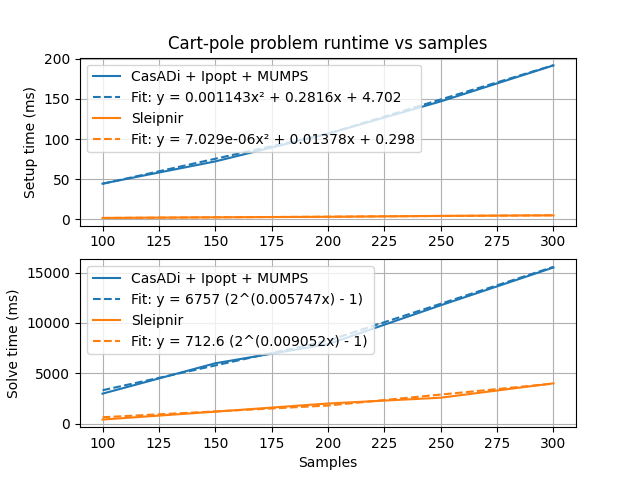
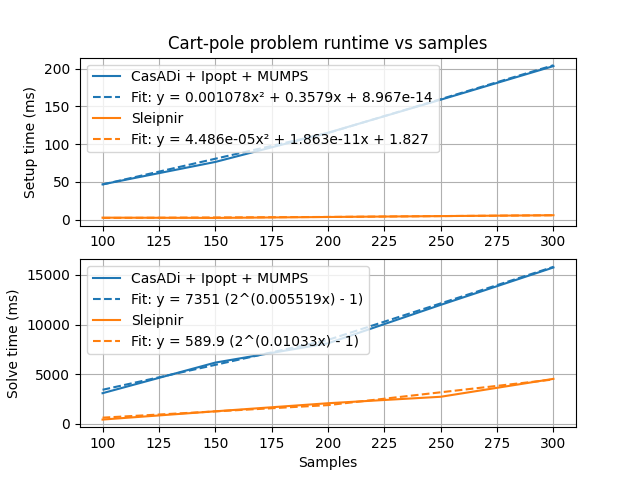
Run benchmarks with Ipopt 3.14.15 (#499)

diff --git a/README.md b/README.md
@@ -82,7 +82,7 @@ Sleipnir's internals are intended to be readable by those who aren't domain expe
 Generated by [tools/generate-scalability-results.sh](https://github.com/SleipnirGroup/Sleipnir/tree/main/tools/generate-scalability-results.sh) from [benchmarks/scalability](https://github.com/SleipnirGroup/Sleipnir/tree/main/benchmarks/scalability) source on a AMD Ryzen 7 7840U with 64 GB RAM. The following thirdparty software was used in the benchmarks:
 
 * CasADi 3.6.5 (autodiff and NLP solver frontend)
-* Ipopt 3.14.14 (NLP solver backend)
+* Ipopt 3.14.15 (NLP solver backend)
 * MUMPS 5.6.2 (linear solver)
 
 Ipopt uses MUMPS by default because it has free licensing. Commercial linear solvers may be much faster.
